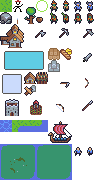
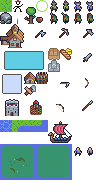
boat

Changed region(s): [[0.0625, 0.75, 0.6875, 0.9375], [0.4375, 0.75, 0.75, 0.9062], [0.0, 0.7812, 0.3125, 0.9375]]

diff --git a/src/js/DEFS.js b/src/js/DEFS.js
@@ -28,37 +28,37 @@ const DEFS = {
 		{
 			number: 'second',
 			name: 'Hyglak the combative',
-			enemies: [32, 32, 30, 30, 32, 30]
+			enemies: [32, 18, 30, 17, 32, 17]
 		},
 		{
 			number: 'third',
 			name: 'Halga the wise',
-			enemies: [32, 32, 30, 30, 32, 30]
+			enemies: [32, 3, 30, 4, 32, 4]
 		},
 		{
 			number: 'fourth',
 			name: 'Helfdane the fat',
-			enemies: [32, 32, 30, 30, 32, 30]
+			enemies: [18, 3, 17, 4, 19, 4]
 		},
 		{
 			number: 'fifth',
 			name: 'Edgtho the silent',
-			enemies: [32, 32, 30, 30, 32, 30]
+			enemies: [3, 3, 4, 4, 5, 4]
 		},
 		{
 			number: 'sixth',
 			name: 'Ragnar the grim',
-			enemies: [32, 32, 30, 30, 32, 30]
+			enemies: [3, 18, 4, 19, 5, 20]
 		},
 		{
 			number: 'seventh',
 			name: 'Rethel the archer',
-			enemies: [32, 32, 30, 30, 32, 30]
+			enemies: [3, 32, 4, 30, 5, 31]
 		},
 		{
 			number: 'eighth',
 			name: 'Halga the wise',
-			enemies: [32, 32, 30, 30, 32, 30]
+			enemies: [18, 32, 19, 30, 18, 31]
 		},
 		{
 			number: 'ninth',
@@ -68,22 +68,22 @@ const DEFS = {
 		{
 			number: 'tenth',
 			name: 'Skeld the wary',
-			enemies: [32, 32, 30, 30, 32, 30]
+			enemies: [32, 18, 30, 17, 32, 17]
 		},
 		{
 			number: 'eleventh',
 			name: 'Roneth the quick',
-			enemies: [32, 32, 30, 30, 32, 30]
+			enemies: [32, 3, 30, 4, 32, 4]
 		},
 		{
 			number: 'twelfth',
 			name: 'Eben Fadlan',
-			enemies: [32, 32, 30, 30, 32, 30]
+			enemies: [18, 3, 17, 4, 19, 4]
 		},
 		{
 			number: 'thirteenth',
 			name: 'Beowulf the king',
-			enemies: [32, 32, 30, 30, 32, 30]
+			enemies: [3, 3, 4, 4, 5, 4]
 		},
 		
 	]

diff --git a/src/js/main.js b/src/js/main.js
@@ -131,8 +131,13 @@ function gameUpdate() {
 
 		}
 
+		// place boat
+		const x = def.enemies[0];
+		const y = def.enemies[1];
+		GLOBAL.boat.pos = vec2(x > 20 ? 33 : x < 5 ? 2 : 18, y > 20 ? 33 : y < 5 ? 2 : 18);
+
 		
-		GLOBAL.warriorTimer.set(90);
+		GLOBAL.warriorTimer.set(5);
 		GLOBAL.warriorIndex++;
 	}
 
